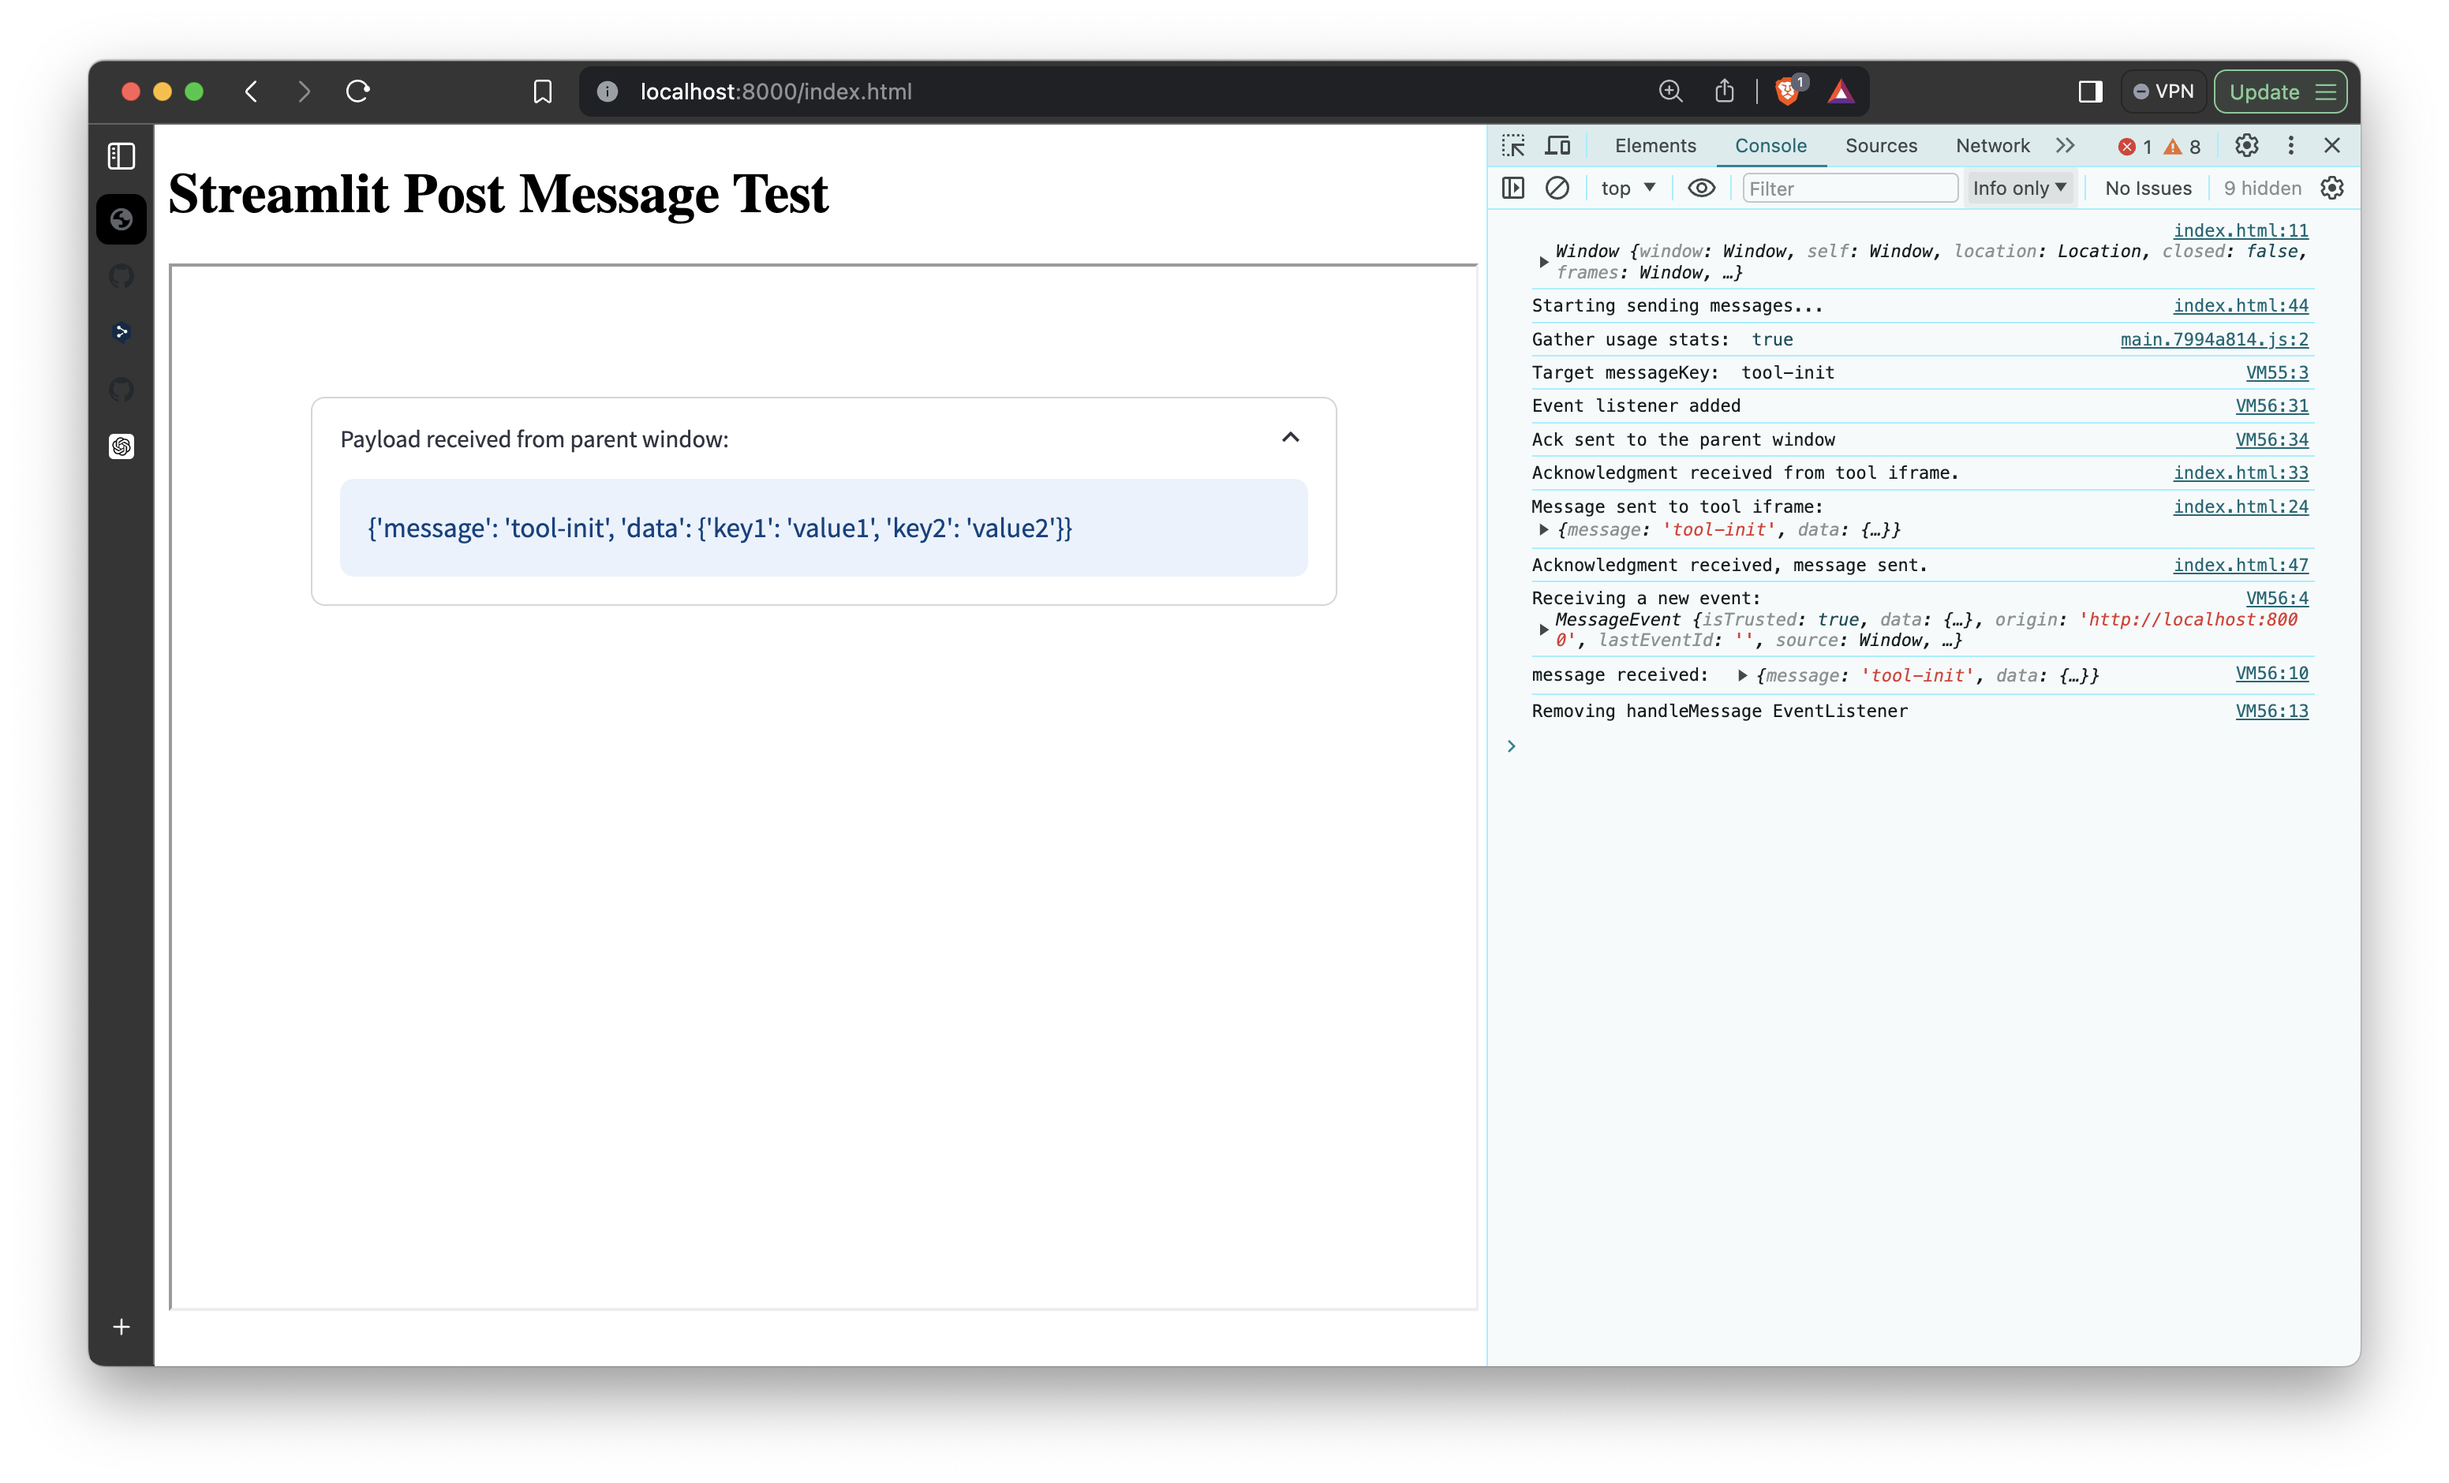
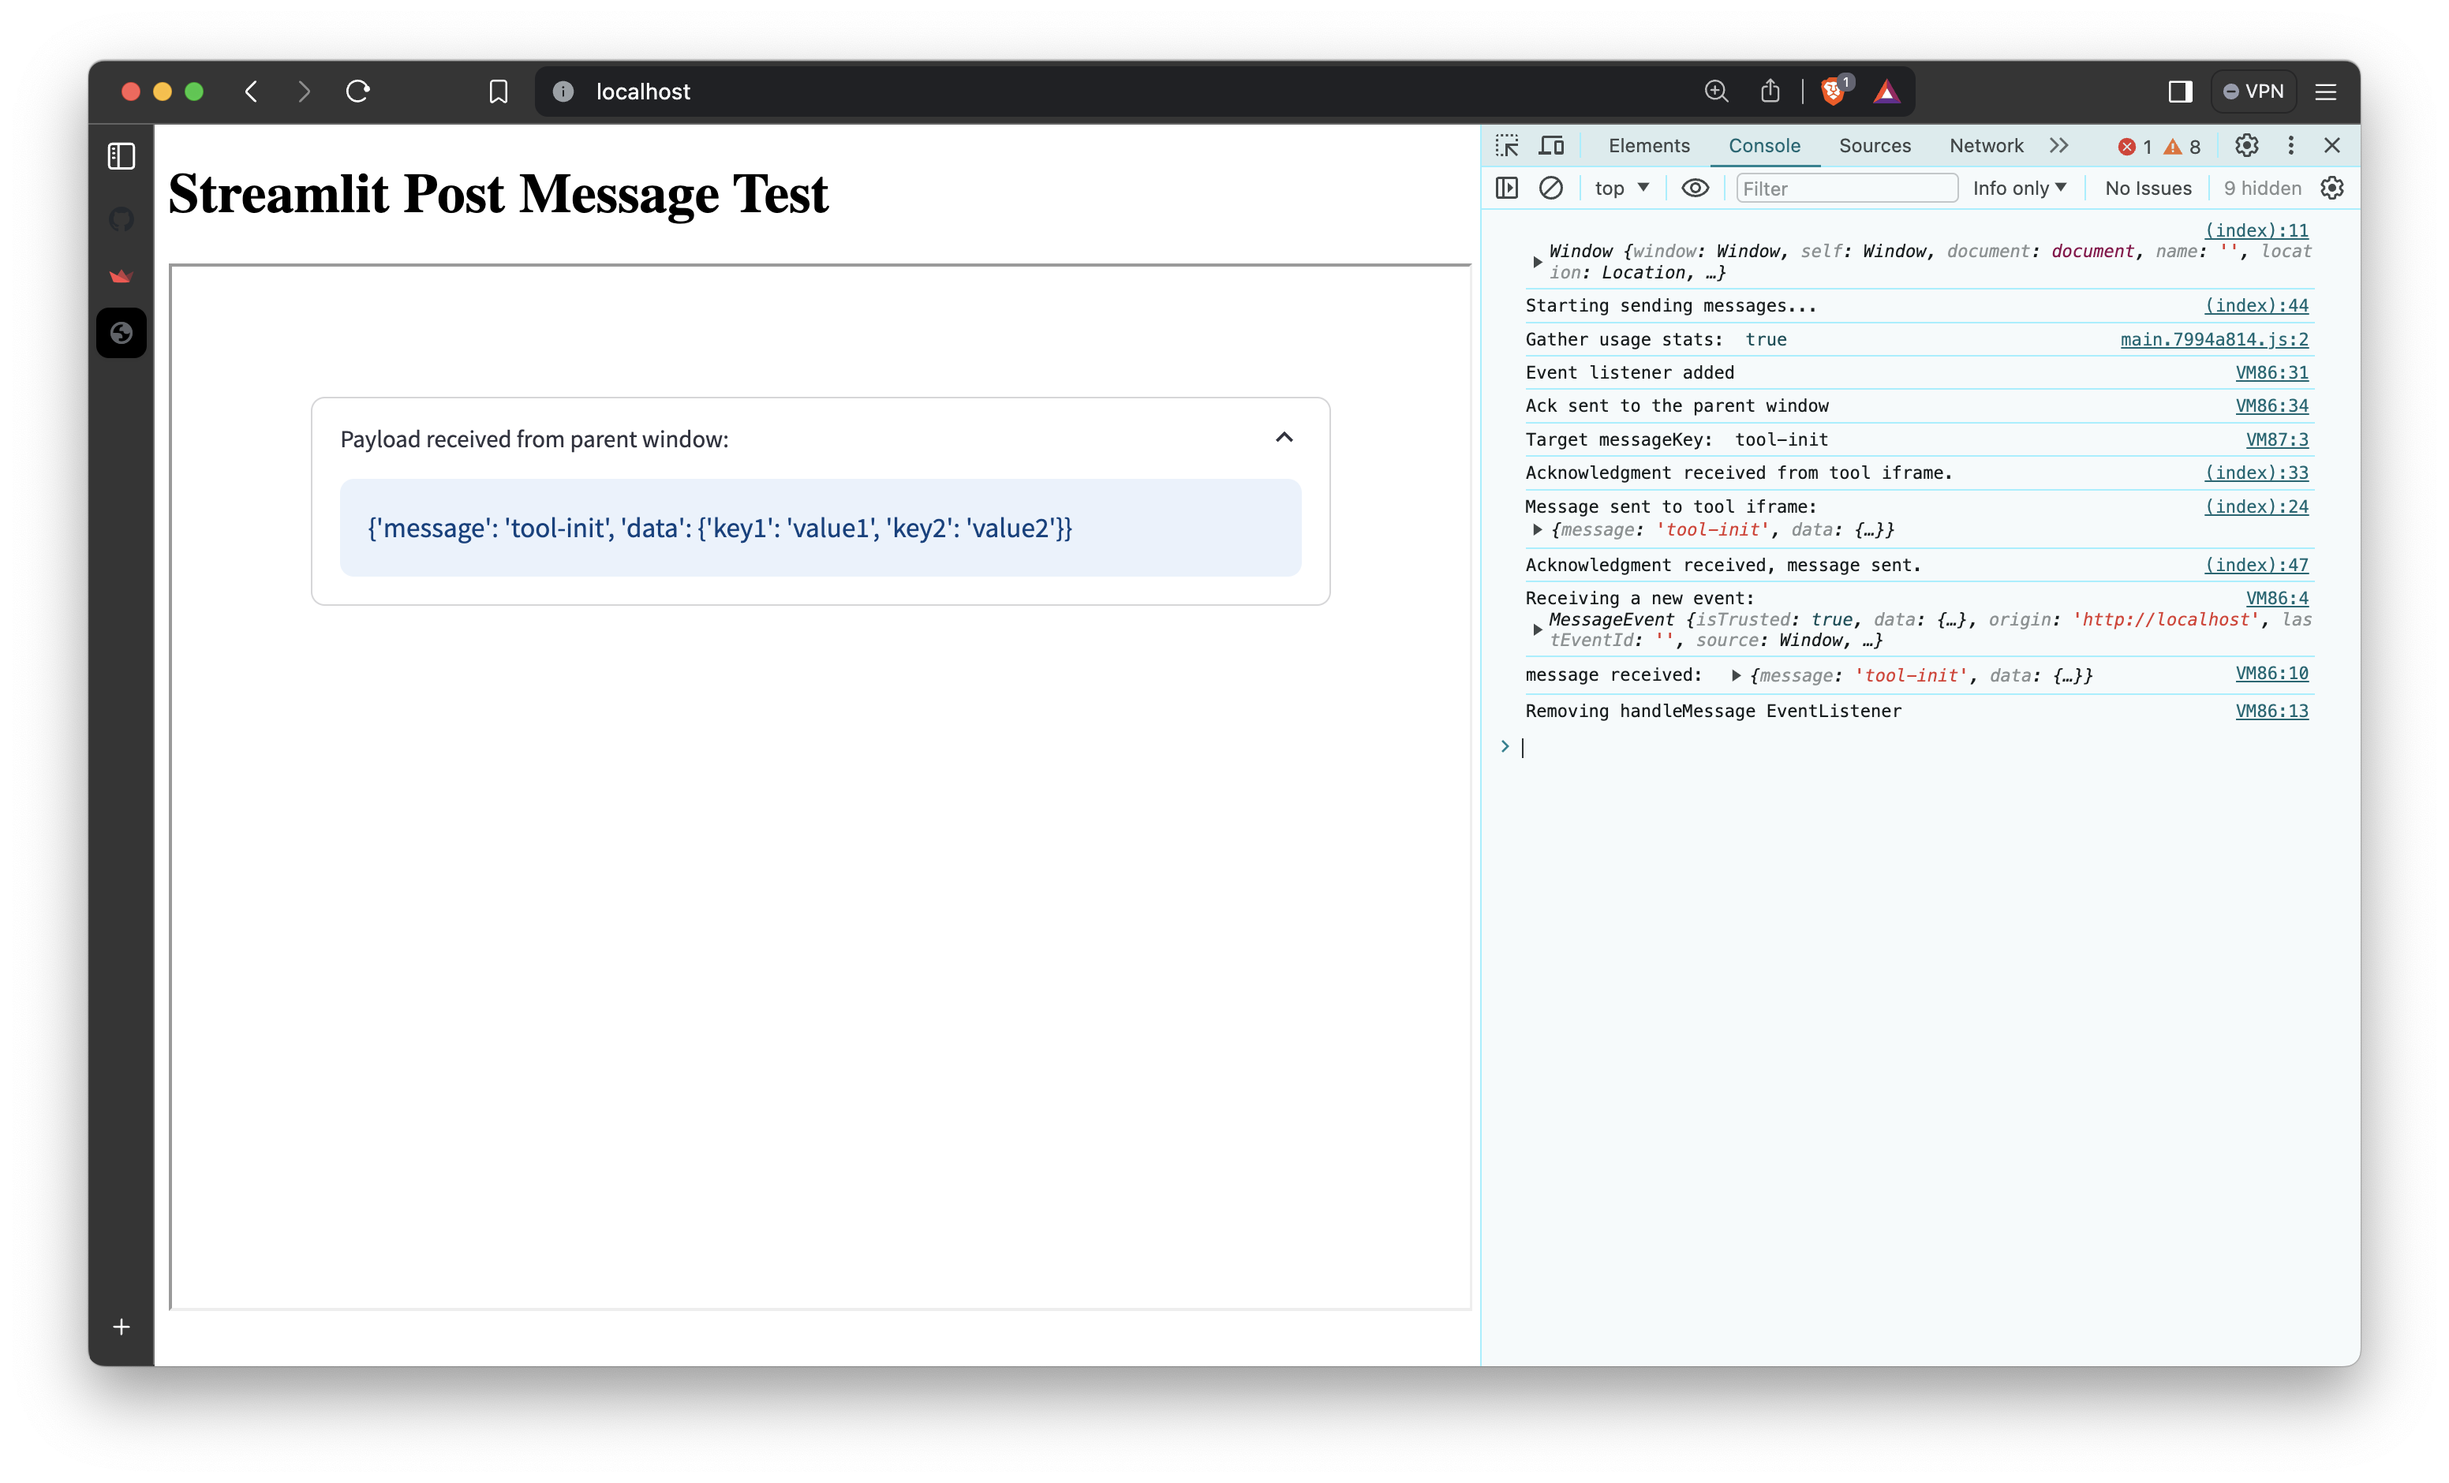
🚀 Updating demo, providing a dockerized version of it

diff --git a/index.html b/index.html
@@ -55,6 +55,6 @@
 </head>
 <body>
     <h1>Streamlit Post Message Test</h1>
-    <iframe id="toolFrame" src="http://0.0.0.0:8080?embed=True" width="100%" height="600"></iframe>
+    <iframe id="toolFrame" src="/streamlit/?embed=True" width="100%" height="600"></iframe>
 </body>
 </html>

diff --git a/README.md b/README.md
@@ -40,21 +40,23 @@ Using the pre-commit git hooks to ensure checks before committing.
 (spm) pre-commit autoupdate
 ```
 
-## 🤖 Demo
+## 🐳 Dockerized Demo
 
 This tool requires a specific structure to be followed by our JavaScript-based application Streamlit in an iFrame. For this reason, a very simple html/js-based demo is provided.
 
-In two different terminals run:
+Nginx is a high-performance web server and reverse proxy server. It handles incoming web traffic efficiently by distributing client requests across multiple servers, improving load balancing and speed. It can serve static content directly and manage dynamic content through proxies to application servers. Nginx uses an event-driven, asynchronous architecture for handling many connections simultaneously with minimal resource usage.
+
+You can build and try this demo locally:
 
 ```bash
-(my_venv) python -m http.server 8000
+docker build -t streamlit_post_message .
 ```
 
 ```bash
-(my_venv) streamlit run demo.py --server.port 8080
+docker run -p 80:80 streamlit_post_message
 ```
 
-At `localhost:8000/index.html` you should see something like this:
+At `0.0.0.0` or `localhost` you should see something like this:
 
 ![demo_image](resources/image.png)
 
